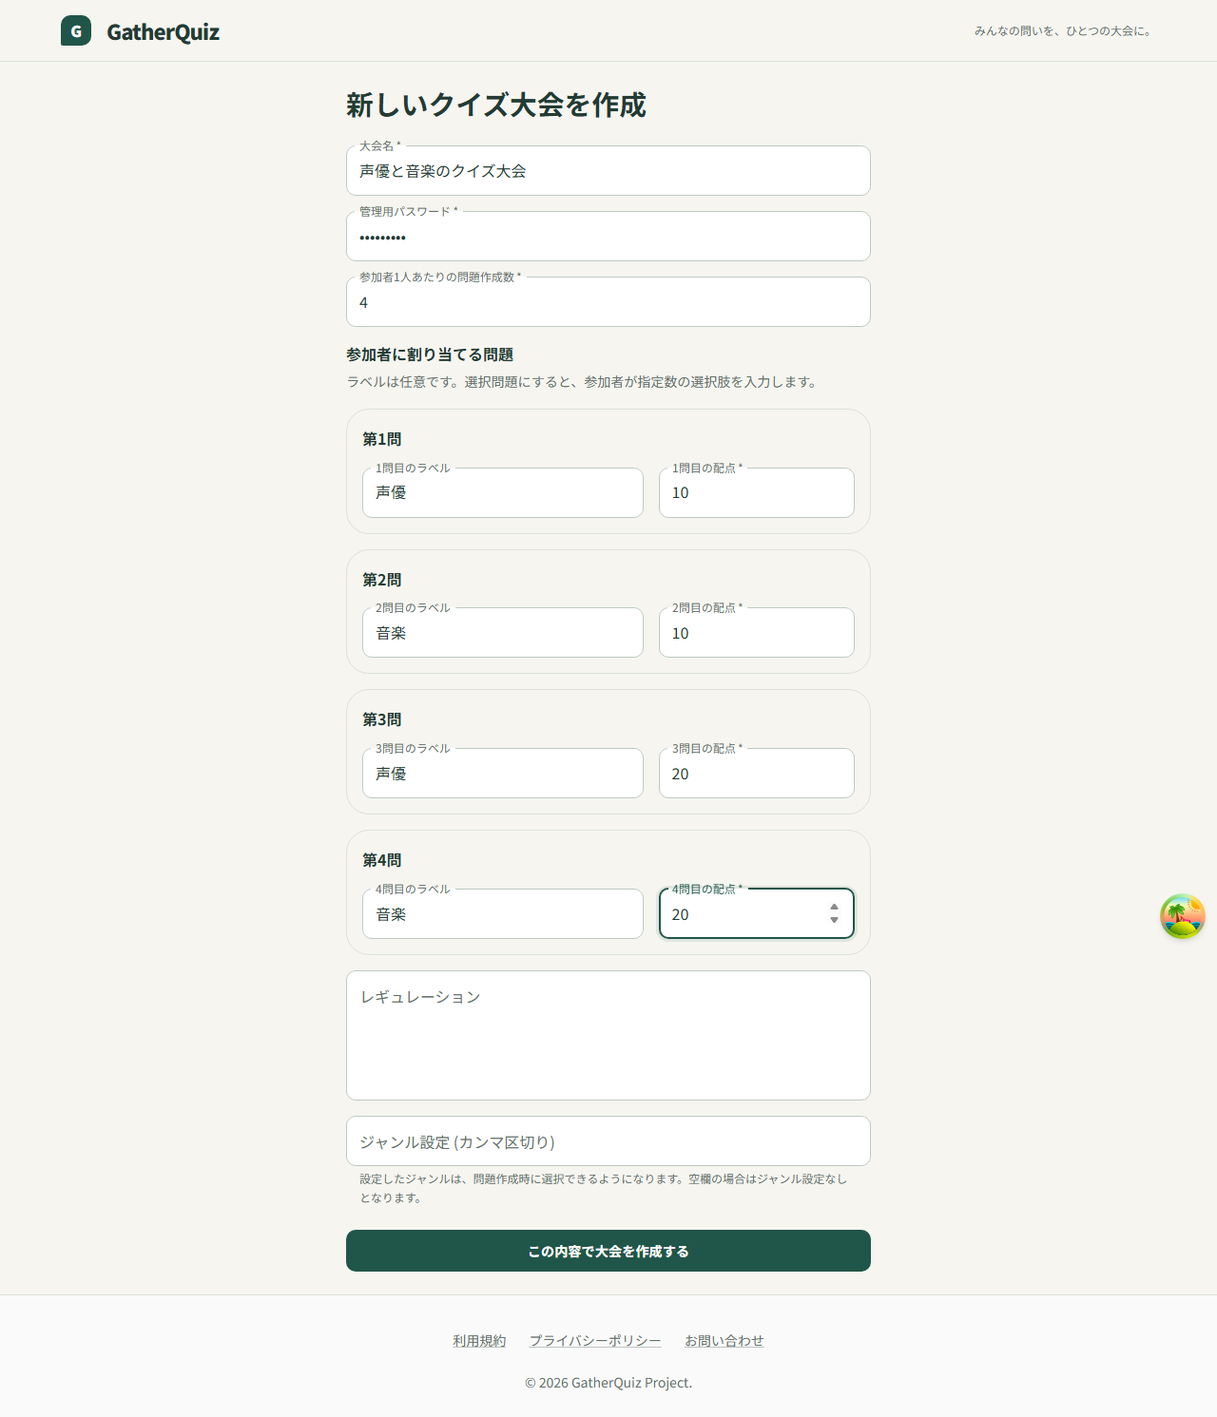
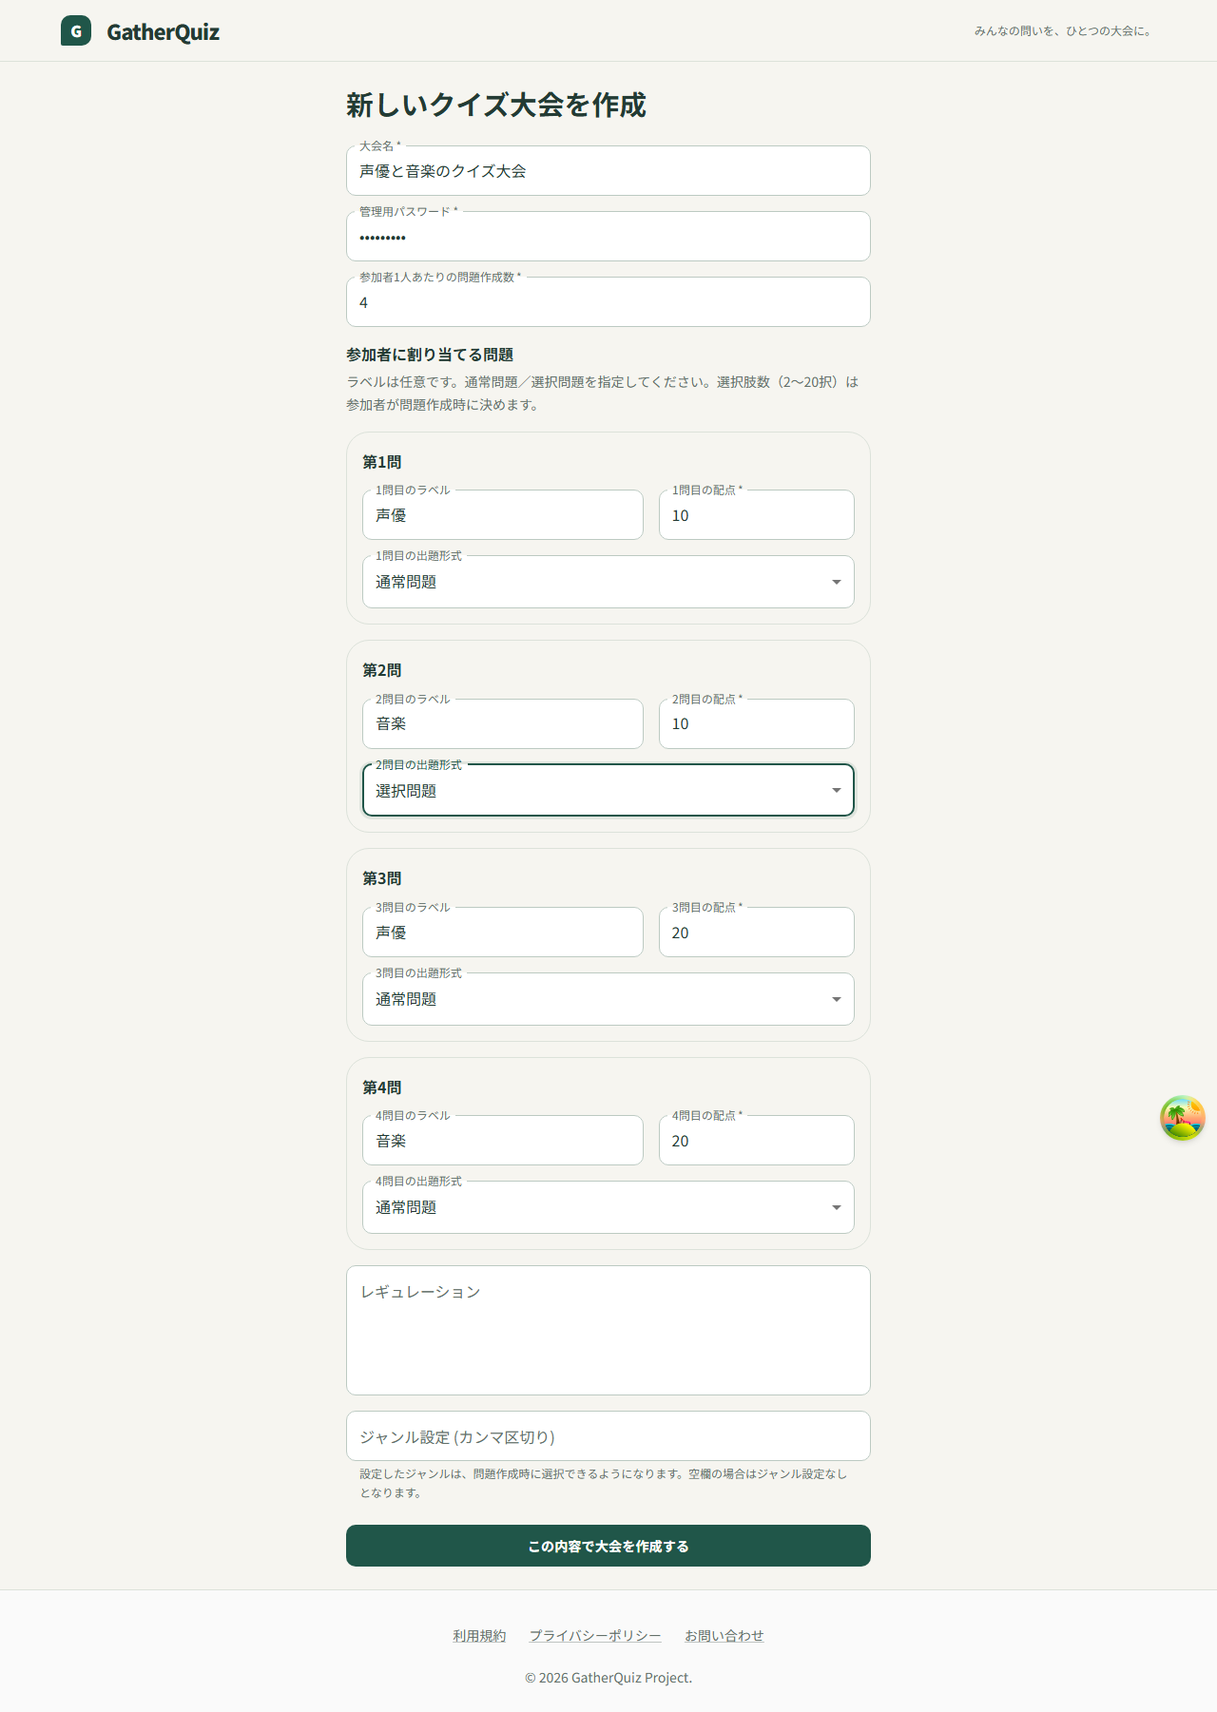
feat: let organizers set question type and participants choose option count

diff --git a/frontend/src/components/TournamentForm.tsx b/frontend/src/components/TournamentForm.tsx
@@ -1,6 +1,6 @@
 import { useState, useEffect } from 'react';
 import { styled } from '@mui/material/styles';
-import { Grid, Box, Typography } from '@mui/material';
+import { Grid, Box, Typography, MenuItem } from '@mui/material';
 import type { QuestionSlot } from '../models/QuestionSlot';
 import { Tournament } from '../models/Tournament';
 import { Input } from './design-system/Input/Input';
@@ -57,7 +57,7 @@ export const TournamentForm = ({ tournament, onSubmit, isEditMode }: TournamentF
   // 問題数が変更されたら配点入力欄の数を調整する
   useEffect(() => {
     if (!Number.isInteger(questionsPerParticipant) || questionsPerParticipant < 1 || questionsPerParticipant > 10) return;
-    setSlots(prev => Array.from({ length: questionsPerParticipant }, (_, index) => prev[index] || { label: '', choiceCount: 0 }));
+    setSlots(prev => Array.from({ length: questionsPerParticipant }, (_, index) => prev[index] || { label: '', choiceCount: 0, questionType: 'normal' }));
     setPointValues((prev) => {
       const currentLength = prev.length;
       if (questionsPerParticipant > currentLength) {
@@ -88,7 +88,7 @@ export const TournamentForm = ({ tournament, onSubmit, isEditMode }: TournamentF
       name,
       questionsPerParticipant: Number(questionsPerParticipant),
       points: pointValues.join(','),
-      questionSlots: pointValues.map((_, i) => ({ label: (slots[i]?.label || '').trim(), choiceCount: slots[i]?.choiceCount || 0 })),
+      questionSlots: pointValues.map((_, i) => ({ ...slots[i], label: (slots[i]?.label || '').trim(), choiceCount: slots[i]?.choiceCount || 0 })),
       regulation,
       genres,
       ...(password && { password }),
@@ -127,7 +127,7 @@ export const TournamentForm = ({ tournament, onSubmit, isEditMode }: TournamentF
         {/* 配点が同じでも問題順ごとに別の枠として設定する。 */}
         <Grid item xs={12}>
             <Typography variant="h6" gutterBottom>参加者に割り当てる問題</Typography>
-            <Typography variant="body2" color="text.secondary" sx={{ mb: 2 }}>ラベルは任意です。選択問題にすると、参加者が指定数の選択肢を入力します。</Typography>
+            <Typography variant="body2" color="text.secondary" sx={{ mb: 2 }}>ラベルは任意です。通常問題／選択問題を指定してください。選択肢数（2〜20択）は参加者が問題作成時に決めます。</Typography>
             {isEditMode && <Typography variant="body2" color="text.secondary" sx={{ mb: 2 }}>問題が作成された大会では、問題数・配点・ラベル・出題形式は変更できません。</Typography>}
             <Grid container spacing={2}>
             {pointValues.map((point, index) => (
@@ -148,6 +148,12 @@ export const TournamentForm = ({ tournament, onSubmit, isEditMode }: TournamentF
                     inputProps={{ min: 1, max: 2147483647, step: 1 }}
                     onChange={(e) => handlePointChange(index, e.target.value)}
                 />
+                </Grid>
+                <Grid item xs={12}>
+                  <Input select label={`${index + 1}問目の出題形式`} fullWidth value={slots[index]?.questionType || 'legacy'} onChange={e => updateSlot(index, { questionType: e.target.value as 'normal' | 'choice' })}>
+                    {!slots[index]?.questionType && <MenuItem value="legacy">従来設定（参加者が形式選択）</MenuItem>}
+                    <MenuItem value="normal">通常問題</MenuItem><MenuItem value="choice">選択問題</MenuItem>
+                  </Input>
                 </Grid>
                 </Grid>
                 </Box>

diff --git a/backend/src/question-slots.ts b/backend/src/question-slots.ts
@@ -1,9 +1,9 @@
 import { BadRequestError, NotFoundError } from './errors/HttpErrors';
 import { prisma } from './db';
 
-export type QuestionSlot = { label: string; choiceCount: number };
+export type QuestionSlot = { label: string; choiceCount: number; questionType?: 'normal' | 'choice' };
 
-/** 旧大会は通常問題として扱い、新設定だけを厳密に検証する。 */
+/** 旧大会の未指定形式は保持し、新設定だけを厳密に検証する。 */
 export function validateQuestionSlots(value: unknown, count: unknown, points: unknown): QuestionSlot[] {
   if (!Number.isInteger(count) || Number(count) < 1 || Number(count) > 10 || typeof points !== 'string' ||
       points.split(',').length !== count || points.split(',').some(p => !Number.isInteger(Number(p)) || Number(p) < 1 || Number(p) > 2147483647) ||
@@ -16,7 +16,8 @@ export function validateQuestionSlots(value: unknown, count: unknown, points: un
         (slot.choiceCount !== 0 && (slot.choiceCount < 2 || slot.choiceCount > 20))) {
       throw new BadRequestError('ラベルは50文字以内、選択肢数は2〜20の整数で指定してください。');
     }
-    return { label: slot.label.trim(), choiceCount: slot.choiceCount };
+    if ('questionType' in slot && slot.questionType !== 'normal' && slot.questionType !== 'choice') throw new BadRequestError('出題形式は通常問題または選択問題を指定してください。');
+    return { label: slot.label.trim(), choiceCount: slot.choiceCount, ...('questionType' in slot ? { questionType: slot.questionType as 'normal' | 'choice' } : {}) };
   });
 }
 
@@ -35,7 +36,7 @@ export function validateChoices(value: unknown, count: number): string[] {
 }
 
 /** クライアント指定の形式ではなく、大会に割り当てられた枠を使用する。 */
-export async function assignedSlot(tournamentId: string, participantId: string, order: unknown, point: unknown) {
+export async function assignedSlot(tournamentId: string, participantId: string, order: unknown, point: unknown): Promise<QuestionSlot> {
   const tournament = await prisma.tournament.findUnique({ where: { id: tournamentId } });
   if (!tournament) throw new NotFoundError('Tournament not found');
   const participant = await prisma.participant.findUnique({ where: { id: participantId } });
@@ -48,8 +49,9 @@ export async function assignedSlot(tournamentId: string, participantId: string, 
   return slots[order];
 }
 
-/** 問題作成者が通常問題または2〜20択を選ぶ。 */
-export function validateChoiceCount(value: unknown): number {
+/** 主催者指定の形式を守り、参加者が選んだ択数を検証する。 */
+export function validateChoiceCount(value: unknown, questionType?: QuestionSlot['questionType']): number {
   if (typeof value !== 'number' || !Number.isInteger(value) || (value !== 0 && (value < 2 || value > 20))) throw new BadRequestError('選択肢数は2〜20の整数で指定してください。');
+  if ((questionType === 'normal' && value !== 0) || (questionType === 'choice' && value === 0)) throw new BadRequestError('大会で指定された出題形式を使用してください。');
   return value;
 }

diff --git a/frontend/src/stories/pages/QuizCreatorPage.stories.tsx b/frontend/src/stories/pages/QuizCreatorPage.stories.tsx
@@ -1,6 +1,6 @@
 import { quizArgs, quizArgTypes, tournamentArgs, tournamentArgTypes, type QuizControls, type TournamentControls } from '../controls';
 import type { Meta, StoryObj } from '@storybook/react';
-import { userEvent, within } from '@storybook/test';
+import { within, expect } from '@storybook/test';
 import QuizCreatorPage from '../../pages/QuizCreatorPage';
 import { pathToQuizCreator } from '../../helpers/route-helpers';
 import { mobile } from '../fixtures';
@@ -16,11 +16,11 @@ export default meta;
 type Story = StoryObj<typeof meta>;
 
 export const Default: Story = { name: '通常' };
-export const MultipleChoice: Story = { name: '参加者が4択問題を選択', args: { questionSlots: [{ label: '声優', choiceCount: 0 }, { label: '音楽', choiceCount: 0 }, { label: '', choiceCount: 0 }] },
+export const MultipleChoice: Story = { name: '主催者指定の選択問題・参加者が択数を設定', args: { questionSlots: [{ label: '声優', choiceCount: 0 }, { label: '音楽', choiceCount: 0, questionType: 'choice' }, { label: '', choiceCount: 0 }] },
   play: async ({ canvasElement }) => {
     const canvas = within(canvasElement);
-    await userEvent.click(await canvas.findByLabelText('出題形式'));
-    await userEvent.click(within(canvasElement.ownerDocument.body).getByRole('option', { name: '選択問題' }));
+    await expect(await canvas.findByLabelText(/選択肢数/)).toHaveValue(4);
+    await expect(canvas.queryByLabelText('出題形式')).not.toBeInTheDocument();
   },
 };
 export const MultipleChoiceMobile: Story = { ...MultipleChoice, name: '4択問題・スマートフォン', parameters: mobile };

diff --git a/frontend/src/pages/QuizCreatorPage.tsx b/frontend/src/pages/QuizCreatorPage.tsx
@@ -73,7 +73,8 @@ const QuizCreatorPage = () => {
   });
 
   const slot = tournament?.questionSlots?.[editOrder ?? order];
-  const [choiceCount, setChoiceCount] = useState(0);
+  const [selectedChoiceCount, setChoiceCount] = useState(0);
+  const choiceCount = slot?.questionType === 'normal' ? 0 : slot?.questionType === 'choice' ? (selectedChoiceCount || 4) : selectedChoiceCount;
 
   // Fetch Quiz Info if editing
   useEffect(() => {
@@ -233,11 +234,11 @@ const QuizCreatorPage = () => {
             <Grid item xs={12}>
               <Typography fontWeight="bold">{slot?.label || `第${(editOrder ?? order) + 1}問`} · {choiceCount ? `${choiceCount}択の選択問題` : '通常問題'}</Typography>
             </Grid>
-            <Grid item xs={12} sm={6}>
+            {!slot?.questionType && <Grid item xs={12} sm={6}>
               <Input select label="出題形式" fullWidth value={choiceCount ? 'choice' : 'normal'} onChange={e => setChoiceCount(e.target.value === 'choice' ? 4 : 0)}>
                 <MenuItem value="normal">通常問題</MenuItem><MenuItem value="choice">選択問題</MenuItem>
               </Input>
-            </Grid>
+            </Grid>}
             {!!choiceCount && <Grid item xs={12} sm={6}><Input label="選択肢数" type="number" fullWidth required inputProps={{ min: 2, max: 20, step: 1 }} value={choiceCount} onChange={e => setChoiceCount(Math.min(20, Math.max(1, Number(e.target.value) || 1)))} helperText="2〜20択。各選択肢は100文字まで" /></Grid>}
             <Grid item>
                 <Input

diff --git a/backend/test/routes/question-slots.test.ts b/backend/test/routes/question-slots.test.ts
@@ -31,6 +31,17 @@ afterEach(async () => {
 });
 
 describe('ラベル・選択問題API', () => {
+  it('大会指定の形式を強制し、選択問題の選択肢数は参加者ごとに変更できる', async () => {
+    const data = await setup();
+    const slots = [{ label: '声優', choiceCount: 0, questionType: 'choice' }, { label: '音楽', choiceCount: 0, questionType: 'normal' }];
+    expect((await request(app).put(`/tournaments/${data.tournamentId}`).send({ questionSlots: slots })).body.questionSlots).toEqual(slots);
+    expect((await request(app).post('/quizzes').send(data)).status).toBe(400);
+    expect((await request(app).post('/quizzes').send({ ...data, order: 1, choiceCount: 2, choices: ['A', 'B'] })).status).toBe(400);
+    const created = await request(app).post('/quizzes').send({ ...data, choiceCount: 2, choices: ['A', 'B'] });
+    expect(created.status).toBe(201);
+    expect((await request(app).put(`/quizzes/${created.body.id}`).send({ choiceCount: 3, choices: ['A', 'B', 'C'] })).body.choiceCount).toBe(3);
+    expect((await request(app).put(`/quizzes/${created.body.id}`).send({ choiceCount: 0 })).status).toBe(400);
+  });
   it('主催者の形式に関係なく参加者が切替でき、100文字は保存し101文字は拒否する', async () => {
     const data = await setup();
     const normal = await request(app).post('/quizzes').send(data);

diff --git a/frontend/src/components/QuestionSlots.test.tsx b/frontend/src/components/QuestionSlots.test.tsx
@@ -9,14 +9,16 @@ describe('問題枠の設定', () => {
     fireEvent.change(screen.getByLabelText('1問目のラベル'), { target: { value: '声優' } });
     fireEvent.change(screen.getByLabelText('2問目のラベル'), { target: { value: '音楽' } });
     fireEvent.change(screen.getByLabelText(/2問目の配点/), { target: { value: '10' } });
-    expect(screen.queryByLabelText('1問目の出題形式')).not.toBeInTheDocument();
+    fireEvent.mouseDown(screen.getByLabelText('1問目の出題形式'));
+    fireEvent.click(screen.getByRole('option', { name: '選択問題' }));
+    expect(screen.queryByLabelText('1問目の選択肢数')).not.toBeInTheDocument();
     fireEvent.submit(screen.getByRole('button', { name: 'この内容で大会を作成する' }).closest('form')!);
     expect(onSubmit).toHaveBeenCalledWith(expect.objectContaining({
       points: '10,10,30',
       questionSlots: [
-        { label: '声優', choiceCount: 0 },
-        { label: '音楽', choiceCount: 0 },
-        { label: '', choiceCount: 0 },
+        { label: '声優', choiceCount: 0, questionType: 'choice' },
+        { label: '音楽', choiceCount: 0, questionType: 'normal' },
+        { label: '', choiceCount: 0, questionType: 'normal' },
       ],
     }));
   });

diff --git a/frontend/src/models/QuestionSlot.ts b/frontend/src/models/QuestionSlot.ts
@@ -1,4 +1,4 @@
-export type QuestionSlot = { label: string; choiceCount: number };
+export type QuestionSlot = { label: string; choiceCount: number; questionType?: 'normal' | 'choice' };
 
 /** API境界で枠設定を検証し、旧レスポンスは通常問題へ移行する。 */
 export function parseQuestionSlots(value: unknown): QuestionSlot[] {
@@ -8,6 +8,7 @@ export function parseQuestionSlots(value: unknown): QuestionSlot[] {
     if (!slot || typeof slot !== 'object' || !('label' in slot) || typeof slot.label !== 'string' ||
         !('choiceCount' in slot) || typeof slot.choiceCount !== 'number' || !Number.isInteger(slot.choiceCount) ||
         (slot.choiceCount !== 0 && (slot.choiceCount < 2 || slot.choiceCount > 20))) throw new Error('問題枠の形式が不正です。');
-    return { label: slot.label, choiceCount: slot.choiceCount };
+    if ('questionType' in slot && slot.questionType !== 'normal' && slot.questionType !== 'choice') throw new Error('出題形式が不正です。');
+    return { label: slot.label, choiceCount: slot.choiceCount, ...('questionType' in slot ? { questionType: slot.questionType as 'normal' | 'choice' } : {}) };
   });
 }

diff --git a/backend/src/routes/quizzes.ts b/backend/src/routes/quizzes.ts
@@ -66,7 +66,7 @@ router.post(
     }
 
     const slot = await assignedSlot(tournamentId, participantId, order ?? 0, point);
-    const choiceCount = validateChoiceCount(req.body.choiceCount ?? 0);
+    const choiceCount = validateChoiceCount(req.body.choiceCount ?? 0, slot.questionType);
     const choices = validateChoices(req.body.choices, choiceCount);
     const quiz = await prisma.quiz.create({
       data: {
@@ -165,7 +165,7 @@ router.put(
     }
 
     const slot = await assignedSlot(quiz.tournamentId, quiz.participantId, quiz.order, point ?? quiz.point);
-    const choiceCount = validateChoiceCount(req.body.choiceCount ?? quiz.choiceCount);
+    const choiceCount = validateChoiceCount(req.body.choiceCount ?? quiz.choiceCount, slot.questionType);
     const choices = validateChoices(req.body.choices === undefined ? (choiceCount ? JSON.parse(quiz.choices) : []) : req.body.choices, choiceCount);
     const updatedQuiz = await prisma.quiz.update({
       where: { id },

diff --git a/frontend/src/stories/components/TournamentForm.stories.tsx b/frontend/src/stories/components/TournamentForm.stories.tsx
@@ -29,7 +29,7 @@ export const Edit: Story = { args: { ...tournamentArgs, isEditMode: true } };
 export const LabelsAndChoices: Story = {
   name: 'ラベル・通常問題と選択問題',
   args: { tournamentName: '声優と音楽のクイズ大会', points: '10,10,20,20', questionSlots: [
-    { label: '声優', choiceCount: 4 }, { label: '音楽', choiceCount: 0 },
-    { label: '声優', choiceCount: 0 }, { label: '音楽', choiceCount: 3 },
+    { label: '声優', choiceCount: 0, questionType: 'choice' }, { label: '音楽', choiceCount: 0, questionType: 'normal' },
+    { label: '声優', choiceCount: 0, questionType: 'normal' }, { label: '音楽', choiceCount: 0, questionType: 'choice' },
   ] },
 };

diff --git a/docs/外部仕様/画面仕様/大会作成.md b/docs/外部仕様/画面仕様/大会作成.md
@@ -16,6 +16,7 @@
 | 参加者1人あたりの問題作成数 | 必須・初期値3 | 必須・既存値表示 | 数値、1～10。 |
 | 各問題の配点 | 必須・初期値10/20/30 | 必須・既存値表示 | 問題数に応じて欄を増減。1〜2147483647の整数。 |
 | 各問題のラベル | 任意 | 既存値表示 | 50文字以内。例: 声優、音楽。同じ配点でも問題順で区別する。 |
+| 各問題の出題形式 | 必須・初期値通常問題 | 既存値表示 | 通常問題／選択問題。択数は参加者が決める。 |
 | レギュレーション | 任意 | 任意・既存値表示 | 4行のテキスト入力。文字数制限はない。 |
 | ジャンル設定 | 任意 | 任意・既存値表示 | カンマ区切り。問題作成時の選択肢に使う。 |
 
@@ -30,10 +31,10 @@
 ## 現行実装上の制約
 
 - 新規作成・編集ともにジャンルと問題枠設定を保存する。ラベルは主催者が割り当てる分類であり、参加者が選ぶジャンルとは別項目。
-- 作成済みの問題が1件でもある大会では、問題数・配点・ラベルの変更をAPIで拒否する。大会名・ルール等は更新可能。出題形式は参加者が問題作成・編集時に変更できる。
+- 作成済みの問題が1件でもある大会では、問題数・配点・ラベル・出題形式の変更をAPIで拒否する。大会名・ルール等は更新可能。参加者は選択問題の択数を変更できる。
 - 旧大会はラベルなし・通常問題として表示する。同じ問題順の設定は問題数増減時に保持し、削除された末尾枠の設定は破棄する。
 - 「開始後は編集不可」という案内が管理画面にあるが、この画面とAPIには開始状態による更新拒否がない。
 
-## 参加者による出題形式の設定
+## 主催者による出題形式・参加者による択数の設定
 
-大会作成では問題枠のラベルと配点のみを設定する。通常問題／選択問題と選択肢数は参加者の問題作成・編集画面で設定する。既存の問題枠JSON内choiceCountは互換性のため保持するが、新規問題の形式には使用しない。
+大会作成では問題枠のラベル・配点・通常問題／選択問題を設定する。選択肢数は指定せず、選択問題を割り当てられた参加者が問題作成・編集時に2〜20択から設定する。JSONのquestionTypeにnormal/choiceを保存し、APIでも形式を強制する。旧大会のquestionType未設定枠は互換性のため従来動作を保持する。

diff --git a/docs/外部仕様/画面仕様/問題作成_編集.md b/docs/外部仕様/画面仕様/問題作成_編集.md
@@ -2,11 +2,11 @@
 
 ## ラベルと選択問題
 
-- 大会設定を取得後、問題順に対応するラベル・配点を表示する。ラベル・配点は参加者が変更できない。出題形式は参加者が通常問題／選択問題を選ぶ。取得失敗時は保存を禁止する。
+- 大会設定を取得後、問題順に対応するラベル・配点を表示する。ラベル・配点は参加者が変更できない。出題形式は主催者が指定する。選択問題の場合のみ参加者が2〜20択の選択肢数を設定する。取得失敗時は保存を禁止する。
 - 選択問題には参加者が指定した2〜20個の選択肢入力欄を表示する。全欄必須、各1〜100文字（前後の空白除去後）。
 - 正解の選択肢番号・内容や解説は従来の解答欄に入力する。自動採点は行わない。
 - 選択肢は順序を保って保存・再取得・再編集できる。通常問題には選択肢欄を表示しない。
-- APIは大会の問題枠からラベルを決定し、選択肢数・配点・参加者の所属大会を検証する。
+- APIは大会の問題枠からラベル・出題形式を決定し、選択肢数・配点・参加者の所属大会を検証する。
 - 参加者ダッシュボードと問題ボードにも問題枠のラベルと作成済み問題の選択肢数を表示する。
 
 ## 基本情報
@@ -51,3 +51,5 @@
 - 動画・音声は `/api/upload/media` で署名を発行し、既存の非公開S3の uploads 配下へブラウザから直接PUTする。署名にはMIMEとバイト数を含め、拡張子はサーバーがMIMEから決定する。実体のコーデック変換や内容解析は行わない。
 - 署名取得の待機上限30秒、転送5分。保存前の転送後に画面を離脱すると未参照オブジェクトが残り得る。添付削除は問題からの参照削除であり、S3実体は削除しない。
 - YouTubeと拡張子付き直接メディアURLは問題・解答・プレビューで再生する。その他URLは通常リンク。外部サービスの公開状態・埋め込み許可やネットワーク接続が必要。
+
+questionType未設定の旧大会は既存問題の形式・選択肢を保持し、従来の形式切替を許可する。新規大会の通常問題／選択問題は参加者が変更できない。既存JSONの拡張のみで、DBスキーマ移行は不要。
